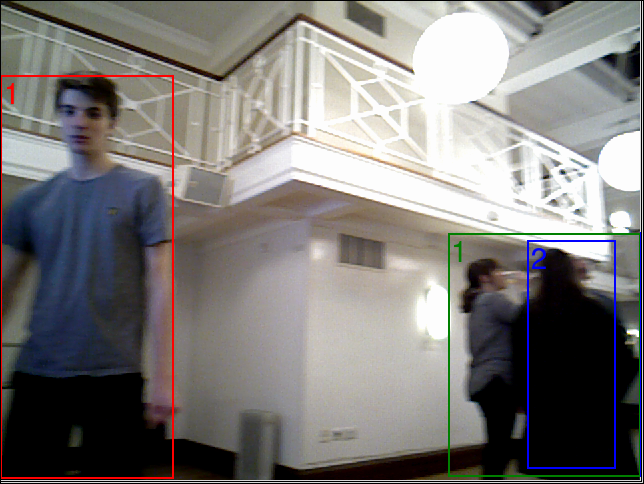
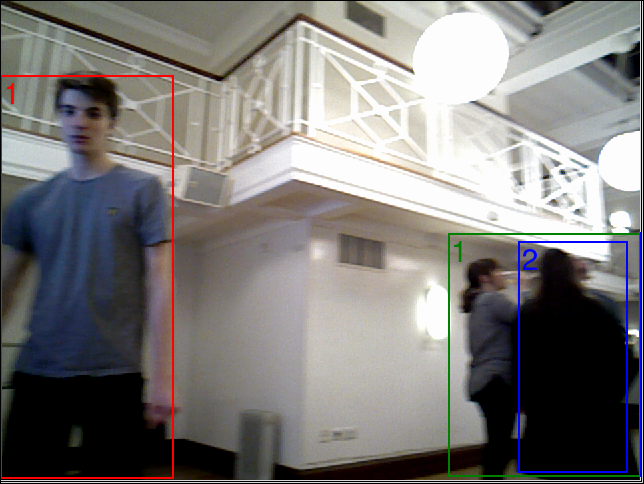
box addition, deletion and db async issues fixed

Changed region(s): [[0.8075, 0.4959, 0.9938, 0.5579], [0.8075, 0.9607, 0.9627, 0.9917]]

diff --git a/src/mod-hum-annotation.py b/src/mod-hum-annotation.py
@@ -469,9 +469,9 @@ class AAController:
 
     # Remove the rectangle with the given index from the list
     # of rectangles of the currently selected frame
-    def delete_rect(self, index):
-        print 'To delete: ', index
-        self.del_ca_frame_single(self.cur_frame_nr, index+1)
+    def delete_rect(self, index, human_id):
+        # print 'To delete: ', index
+        self.del_ca_frame_single(self.cur_frame_nr, human_id)
         del self.frames[self.cur_frame_nr].rects[index]
 
     @staticmethod
@@ -676,7 +676,7 @@ class AAController:
             self.insert_ca_frame_label(fnr, object_id, aclass)
 
     def del_rect(self, index):
-        print 'To delete del_rect: ', index
+        # print 'To delete del_rect: ', index
         self.del_ca_frame_single(self.cur_frame_nr, index+1)
         del self.frames[self.cur_frame_nr].get_rects()[index]
 
@@ -1255,8 +1255,10 @@ class Example(Frame):
     # Remove the currently selected rectangle of the current frame
     def delete_cur_rect(self, event):
         sempos = self.ct.get_sem_mouse_pos(self.mousex, self.mousey)
+        object_text = self.object_id_box.get(sempos.index)
+        human_id = object_text.split('[')[1].split(']')[0]
         if sempos.index > -1:
-            self.ct.delete_rect(sempos.index)
+            self.ct.delete_rect(sempos.index, human_id)
             self.display_anno()
             self.display_class_assignations()
             self.canvas.update()
@@ -1419,7 +1421,7 @@ class Example(Frame):
         x = frame_labels
         for idx, key in enumerate(frame_keys):
             if frame_labels[idx] < 0:
-                self.object_id_box.insert(END, str(key) + " has no assigned class ")
+                self.object_id_box.insert(END, "[" + str(key) + "] has no assigned class ")
             else:
                 self.object_id_box.insert(END, "Human [" + str(key) + "] belongs to group [" + str(frame_labels[idx]) + "]")
 
@@ -1427,14 +1429,18 @@ class Example(Frame):
     # a given object
     def object_id_box_click(self, event):
         self.clicked_object_id = self.object_id_box.curselection()
-
-        class_id = tkSimpleDialog.askinteger('Set BBOX ID', 'Enter group ID for chosen person or 0 if they are not in a group')
+        object_text = self.object_id_box.get(self.clicked_object_id)
+        human_id = object_text.split('[')[1].split(']')[0]
+        # print 'selected human_id: ', human_id
+        class_id = tkSimpleDialog.askinteger('Set BBOX ID', 'Enter group ID for person [' + human_id + '] or 0 if they are not in a group')
+        if class_id == None:
+            class_id = -1
         # print str(class_id), ' is the class id for that human.'
 
         object_id = int(self.clicked_object_id[0])
         # print 'objectidboxclick object id ', object_id+1
         # print 'objectidcoxclicl curfrnr ', self.ct.cur_frame_nr
-        self.ct.update_ca_frame_single(self.ct.cur_frame_nr, object_id+1, class_id)
+        self.ct.update_ca_frame_single(self.ct.cur_frame_nr, human_id, class_id)
         self.display_class_assignations()
         self.is_modified = True
 
